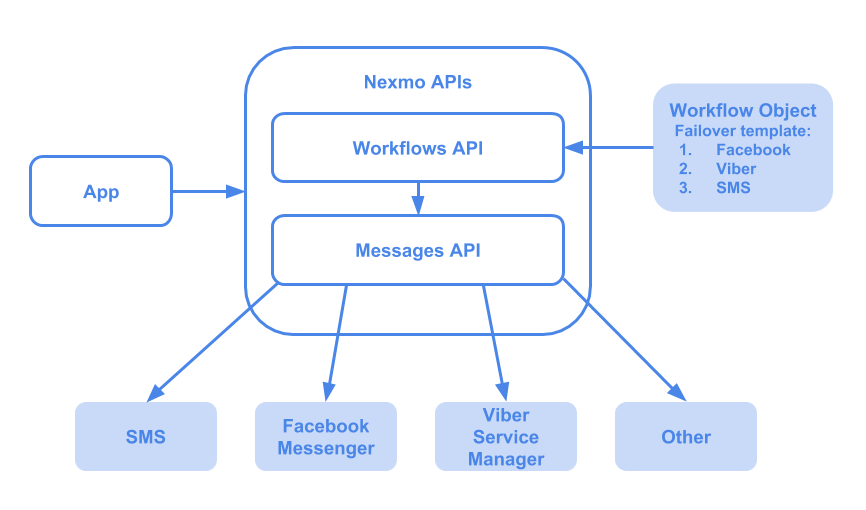
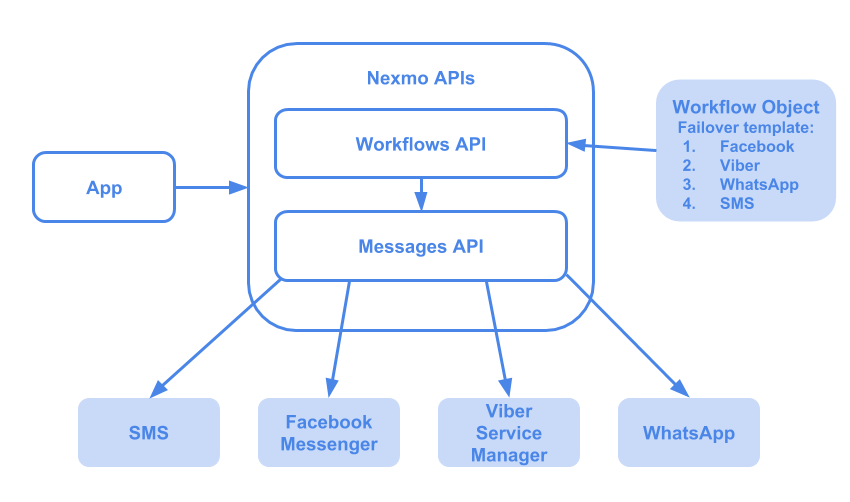
add OAS and first guide (#847)
* add OAS and first guide

* Ensure code examples are linked to via config file.

* Initial pass through fixes.

* WhatsApp not Viber.

* update supported features

* Added WhatsApp to diagram.

* Reworked features table into its own section. Minor formatting to key.

diff --git a/_documentation/messages-and-workflows-apis/messages/guides/whatsapp.md b/_documentation/messages-and-workflows-apis/messages/guides/whatsapp.md
@@ -1,0 +1,144 @@
+---
+title: WhatsApp
+navigation_weight: 4
+---
+
+# WhatsApp
+
+You can use the Messages API to exchange messages with WhatsApp users.
+
+WhatsApp Business Solution can only be sent by businesses that have been approved by WhatsApp. This business profile will also have a green verfied label to indicate that it is a legitimate business.
+
+The advantage of WhatsApp is that the identifier of users on the platform is their mobile phone number.
+
+In order to get started with WhatsApp you will need to email [sales@nexmo.com](mailto:sales@nexmo.com). Nexmo is an official partner and will handle the application and creation of your WhatsApp Business account for you. Currently WhatsApp is in Limited Availability and only a certain number of customers will be onboarded.
+
+If successful, your account manager will provide you with a WhatsApp number.
+
+## How WhatsApp works
+
+A business can start a conversation with a user and a user can start a conversation with a business.
+
+A core concept with WhatsApp are Messages Templates (MTM), formally known as Highly Structured Messages (HSM). WhatsApp requires that a message sent to a user for the first time, or is outside the Customer Care Window, is a MTM message.
+
+The MTM allows a business to send just the template identifier along with the appropriate parameters instead of the full message content.
+
+New templates need to be approved by WhatsApp. Please contact your Nexmo Account Manager to submit the templates. Over time Nexmo will also add generic templates that can be used by all businesses.
+
+MTMs are designed to reduce the likelihood of spam to users on WhatsApp.
+
+For the purpose of testing Nexmo provides a template, `whatsapp:hsm:technology:nexmo:verify`, that you can use:
+
+`{{1}} code: {{2}}. Valid for {{3}} minutes.`
+
+The parameters are an array. The first value being `{{1}}` in the HSM.
+
+Below is the example API call:
+
+```
+curl -X POST \
+  https://api.nexmo.com/beta/messages \
+  -H 'Authorization: Bearer' $JWT \
+  -H 'Content-Type: application/json' \
+  -d '{
+   "from":{
+      "type":"whatsapp",
+      "number":"WHATSAPP_NUMBER"
+   },
+   "to":{
+      "type":"whatsapp",
+      "number":"TO_NUMBER"
+   },
+   "message":{
+      "content":{
+         "type":"template",
+         "template":{
+            "name":"whatsapp:hsm:technology:nexmo:verify",
+            "parameters":[
+               {
+                  "default":"Nexmo Verification"
+               },
+               {
+                  "default":"64873"
+               },
+               {
+                  "default":"10"
+               }
+            ]
+         }
+      }
+   }
+}
+'
+```
+
+Additional WhatsApp Rules:
+
+- If your customer initiates messaging with you, WhatsApp will not charge you for any messages (including MTMs) that you send back to the customer, for up to 24 hours following the last message that your customer sent you. This 24 hour period is known as the Customer Care Window. Any additional message you send to that customer beyond the Customer Care Window must be an MTM, for which WhatsApp will charge you.
+- **Exclusions**: The WhatsApp Business Solution may not be used to send any messages to or from the following countries and regions: Crimea, Cuba, Iran, North Korea, and Syria.
+
+## 1. Configure your Webhook URLs
+
+If you intend to receive inbound messages you will need to configure an Inbound Message Webhook URL.
+
+To receive updates about the status of a message, such as "delivered" or "read", you need to configure a Delivery Receipt Webhook URL.
+
+If you don't have a webhook server set up, you can use a service like [Ngrok](https://ngrok.com/) for testing purposes. If you've not used Ngrok before you can find out more in our [Ngrok tutorial](https://www.nexmo.com/blog/2017/07/04/local-development-nexmo-ngrok-tunnel-dr/).
+
+**TIP:** If the Webhook URLs for messages in your Nexmo Account are already in production use and you would like a second one for using the Messages API, please email [support@nexmo.com](mailto:support@nexmo.com) and ask for a sub API Key.
+
+From [Nexmo Dashboard](https://dashboard.nexmo.com) go to [Settings](https://dashboard.nexmo.com/settings).
+
+Enter your Webhook URLs in the fields labeled **Webhook URL for Inbound Message** and **Webhook URL for Delivery Receipt**:
+
+```screenshot
+script: app/screenshots/webhook-url-for-inbound-message.js
+image: public/assets/screenshots/dashboardSettings.png
+```
+
+**NOTE:** You need to explicitly set the HTTP Method to `POST`, as the default is `GET`.
+
+## 2. Create a Nexmo application
+
+In order to create a JWT to authenticate your API requests, you will need to first create a Nexmo Voice Application. This can be done under the [Voice tab in the Dashboard](https://dashboard.nexmo.com/voice/create-application) or using the [Nexmo CLI](https://github.com/Nexmo/nexmo-cli) tool if you have [installed it](https://github.com/Nexmo/nexmo-cli).
+
+When creating a Nexmo Voice Application, you will be asked to provide an Event URL and an Answer URL. These are currently only used by the Voice API and are ignored by the Messages and Workflows APIs, so in this case you can just set them to the suggested values of `http://example.com/event` and `http://example.com/answer` respectively.
+
+When you are creating the Nexmo Voice Application in the [Nexmo Dashboard](https://dashboard.nexmo.com) you can click the link _Generate public/private key pair_ - this will create a public/private key pair and the private key will be downloaded by your browser.
+
+Make a note of the Nexmo Application ID for the created application.
+
+## 3. Generate a JWT
+
+Once you have created a Voice application you can use the Nexmo Application ID and the downloaded private key file, `private.key`, to generate a JWT.
+
+**TIP:** If you are using the client library for Node (or other languages when supported), the dynamic creation of JWTs is done for you.
+
+If you're using the Nexmo CLI the command to create the JWT is:
+
+``` curl
+$ JWT="$(nexmo jwt:generate /path/to/private.key \application_id=NEXMO_APPLICATION_ID)"
+$ echo $JWT
+```
+
+This JWT will be valid for fifteen minutes. After that, you will need to generate a new one.
+
+**TIP:** In production systems, it is advisable to generate a JWT dynamically for each request.
+
+## 4. Send a message
+
+Please note that free form text messages can only be sent when a customer sends a message to the business first. The business has up to 24 hours from the last moment the customer messages to send a free form message back. After that period a MTM needs to be used.
+
+Key | Description
+-- | --
+`NEXMO_APPLICATION_ID` | The ID of the Nexmo Application that you created.
+`WHATSAPP_NUMBER` | Your WhatsApp number.
+`TO_NUMBER` | The phone number you are sending the message to.
+
+> **NOTE:** Don't use a leading `+` or `00` when entering a phone number, start with the country code, for example 447700900000.
+
+## Example
+
+```tabbed_examples
+config: 'messages_and_workflows_apis.messages.send-whatsapp'
+```

diff --git a/_documentation/messages-and-workflows-apis/messages/overview.md b/_documentation/messages-and-workflows-apis/messages/overview.md
@@ -10,15 +10,9 @@ The Messages API provides integration with the following communications channels
 * SMS
 * Facebook Messenger
 * Viber
+* WhatsApp
 
 Further channels may be supported in the future.
-
-In this release the following features are supported:
-
-* Outbound text messages on SMS, Viber Service Messages and Facebook Messenger.
-* Outbound image message on Viber Service Messages.
-* Outbound image, audio, video and file messages on Facebook Messenger.
-* Inbound text, image, audio, video, file and location messages on Facebook Messenger.
 
 The following diagram illustrates the relationship between the Messages API and the Workflows API:
 
@@ -31,6 +25,28 @@ This API is currently in Developer Preview and you will need to [request access]
 Nexmo always welcomes your feedback. Your suggestions help us improve the product. If you do need help, please email [support@nexmo.com](mailto:support@nexmo.com) and include Messages API in the subject line. Please note that during the Developer Preview period support times are limited to Monday to Friday.
 
 During Developer Preview Nexmo will expand the capabilities of the API.
+
+## Supported features
+
+In this release the following features are supported:
+
+Channel | Outbound Text | Outbound Image | Outbound Audio | Outbound Video | Outbound File | Outbound Template
+-- | -- | -- | -- | -- | -- | --
+SMS | ✅ | n/a | n/a | n/a | n/a | n/a
+Viber Service Messages | ✅ | ✅ | n/a | n/a | n/a | ✅
+Facebook Messenger | ✅ | ✅ | ✅ | ✅ | ✅ | ✅
+WhatsApp | ✅ | ❎ | ❎ | ❎ | ❎ | ✅
+
+Channel | Inbound Text | Inbound Image | Inbound Audio | Inbound Video | Inbound File | Inbound Location
+-- | -- | -- | -- | -- | -- | --
+Facebook Messenger | ✅ | ✅ | ✅ | ✅ | ✅ | ✅
+WhatsApp | ✅ | ❎ | ❎ | ❎ | ❎ | ❎
+
+**Key:** 
+
+* ✅ = Supported. 
+* ❎ = Supported by the channel, but not by Nexmo. 
+* n/a = Not supported by the channel.
 
 ## Getting started
 
